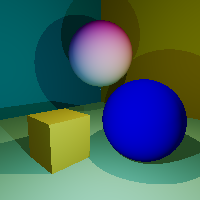
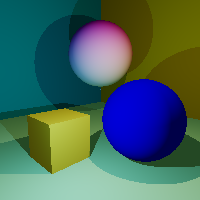
Added readme, and some small changes.

diff --git a/src/screen/pixel_array.hpp b/src/screen/pixel_array.hpp
@@ -6,7 +6,8 @@
 namespace ctrace {
 
 // PixelArray<N> defines an N element "array" of pixels.
-// (Color const*)PixelArray<N>* can be used the same way as const Color[N];
+// reinterpret_cast<Color const*>(PixelArray<N>*) can be
+// used just as static_cast<Color const*>(Color const[N])
 template<unsigned N>
 class PixelArray {
   // Notice how the template recursion depth scales with only log2(N).

diff --git a/src/core/renderer.hpp b/src/core/renderer.hpp
@@ -9,6 +9,8 @@ constexpr Color colorOfPixel(int n) {
   return scene.colorOfPixel(n % kScreenWidth, n / kScreenWidth);
 }
 
+// the scene global variable was not available when this function was
+// declared, so I just define it here - right after scene got defined.
 constexpr Intersection intersectRay(Ray const& ray) {
   return scene.objects().intersectRay(ray);
 }

diff --git a/src/scene_setup.hpp b/src/scene_setup.hpp
@@ -31,7 +31,7 @@ constexpr auto scene = makeScene(
   makeLightContainer(
     AmbientLight{Color{0.2, 0.2, 0.2}},
     PointLight{Position{-1.5, 4, 0}, Color{5, 4, 3}},
-    PointLight{Position{-2, 2, -2}, Color{2, 4, 6}}
+    PointLight{Position{-1, 2, -2}, Color{2, 4, 6}}
   ),
 
   Camera{

diff --git a/src/main.cpp b/src/main.cpp
@@ -1,3 +1,11 @@
+// libstdc++-4.8-dev c++14 mode bugfix
+#include <stdio.h>
+#undef gets
+char *gets(char *p) {
+  scanf("%[^\n]%*c", p);
+  return p;
+}
+
 #include <Magick++.h>
 #include "screen/screen.hpp"
 

diff --git a/README.md b/README.md
@@ -1,0 +1,34 @@
+Ctrace
+==============
+
+A simple C++14 contexpr based compile-time raytacer. This is just an abuse of the flexibility that the C++ compilers offer, it is not suitable for serious use.
+
+A sample image:
+![same](sample.png)
+
+Dependencies:
+-------------
+* C++14 compiler (the makefile uses clang++ (3.4+), but g++ is fine too).
+* Magick++ (libmagick++-dev).
+
+How to build (Linux):
+---------------------
+* make -j4
+* ./a.out
+
+Performace (using the sample scene, on a core-i7):
+-----------
+* 20*20 image:
+  * compile-time: 3.8 sec
+  * run-time: 0.085s
+* 200*200 image:
+  * compile-time: 284.2 sec
+  * run-time: 0.125s
+
+Settings
+-------------
+* You can set the image size in `src/scene_settings.hpp`
+* You can modify the scene in `src/scene_setup.hpp`
+
+----------------------
+If you have any problem, please post in the issues tab or mail me at icyplusplus@gmail.com. Any feedback would be appreciated.
